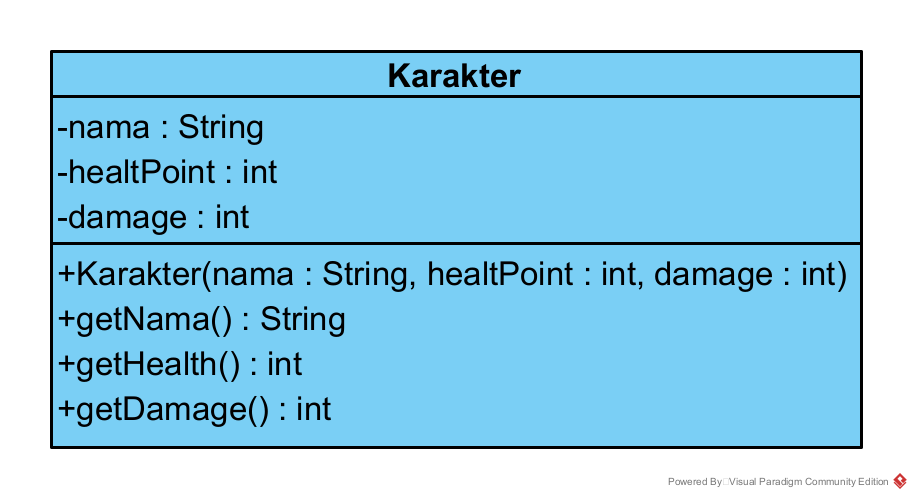
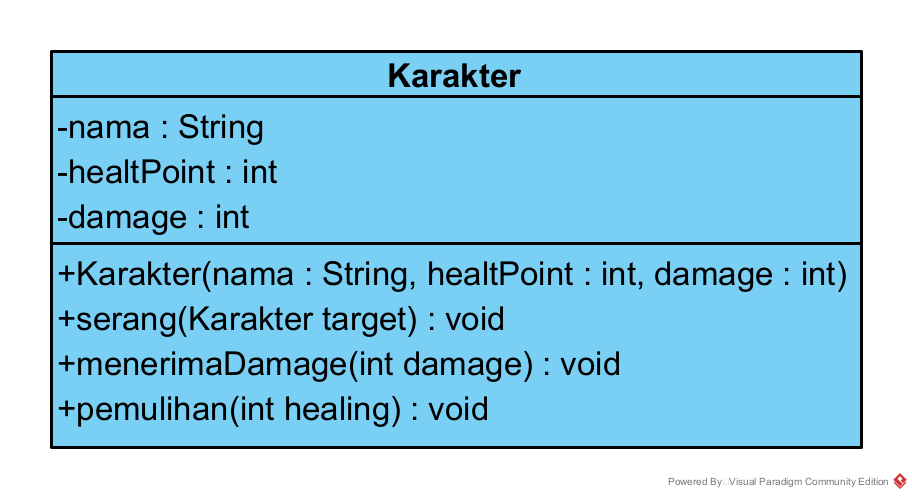
tugas 2 udah bang

Changed region(s): [[0.0614, 0.6024, 0.5833, 0.8735], [0.614, 0.6928, 0.7061, 0.753], [0.4912, 0.6024, 0.5526, 0.6627]]

diff --git a/Tugas3/src/Karakter.java b/Tugas3/src/Karakter.java
@@ -1,23 +1,26 @@
 public class Karakter {
     private String nama;
-    private int healtPoint;
+    private int healthPoint;
     private int damage;
 
-    public Karakter(String nama, int healtPoint, int damage) {
+    public Karakter(String nama, int healthPoint, int damage) {
         this.nama = nama;
-        this.healtPoint = healtPoint;
+        this.healthPoint = healthPoint;
         this.damage = damage;
     }
-    
-    public String getNama() {
-        return nama;
+
+    public void serang(Karakter target) {
+        System.out.println(this.nama + " menyerang " + target.nama + " dengan damage " + this.damage);
+        target.menerimaDamage(this.damage);
     }
 
-    public int getHealtPoint() {
-        return healtPoint;
+    public void menerimaDamage(int damage) {
+        this.healthPoint -= damage;
+        System.out.println(this.nama + " menerima damage " + damage + ". Health point sekarang: " + this.healthPoint);
     }
 
-    public int getDamage() {
-        return damage;
+    public void pemulihan(int healing) {
+        this.healthPoint += healing;
+        System.out.println(this.nama + " ditambahkan health point sebesar " + healing + ". Health point sekarang: " + this.healthPoint);
     }
 }

diff --git a/Tugas3/src/Game.java b/Tugas3/src/Game.java
@@ -1,0 +1,25 @@
+public class Game {
+
+    public static void main(String[] args) {
+        Karakter char1 = new Karakter("Hero", 1000, 25);
+        Karakter char2 = new Karakter("Villain", 1200, 30);
+
+        char1.serang(char2);
+        char2.pemulihan(25);
+        char1.menerimaDamage(20);
+
+        Senjata Sword = new Senjata("Primordial jade cutter", 214);
+
+        Sword.displayInfoSenjata();
+        Sword.upgradeSenjata(20);
+        Sword.refineSenjata();
+
+        Stage floor1 = new Stage(1, "Mudah");
+
+        floor1.displayInfoStage();
+        floor1.levelUp(1);
+        floor1.ubahKesulitan("Sulit");
+        floor1.displayInfoStage();
+    }
+
+}

diff --git a/Tugas3/src/Senjata.java b/Tugas3/src/Senjata.java
@@ -7,11 +7,20 @@ public class Senjata {
         this.damage = damage;
     }
 
-    public String getNama() {
-        return nama;
-    }
-
     public int getDamage() {
         return damage;
+    }
+
+    public void displayInfoSenjata() {
+        System.out.println("Senjata: " + nama + ", Damage: " + damage);
+    }
+
+    public void upgradeSenjata(int upgrade) {
+        this.damage += upgrade;
+        System.out.println("Senjata " + this.nama + " telah ditingkatkan. Damage sekarang: " + this.damage);
+    }
+
+    public void refineSenjata() {
+        System.out.println("Senjata " + this.nama + " telah dirifine.");
     }
 }

diff --git a/Tugas3/src/Stage.java b/Tugas3/src/Stage.java
@@ -11,7 +11,17 @@ public class Stage {
         return level;
     }
 
-    public String getKesulitan() {
-        return kesulitan;
+    public void displayInfoStage() {
+        System.out.println("Level: " + level + ", Kesulitan: " + kesulitan);
+    }
+
+    public void ubahKesulitan(String ubah) {
+        this.kesulitan = ubah;
+        System.out.println("Kesulitan di ubah ke " + kesulitan);
+    }
+
+    public void levelUp(int tambah) {
+        this.level += tambah;
+        System.out.println("Stage telah naik ke level " + this.level);
     }
 }

diff --git a/Tugas2/235150600111010-Ali/README.md b/Tugas2/235150600111010-Ali/README.md
@@ -11,12 +11,12 @@ NIM  : 235150600111010
 
 ### Gunakan tempalate dibawah apabila pengerjaan bagian tugas praktikum merupakan aplikasi interaktif, dan hapus kode baris ini, hapus template berikut beserta kata baris ini apabila tugas praktikum bukan aplikasi interaktif
 
-Nama Aplikasi Program :    
+Nama Aplikasi Program : Sistem informasi Perpustakaan
 Fitur Aplikasi Program :                   
-1. fitur A
-2. fitur B
-3. fitur C 
-4. dst
+1. Cari buku berdasarkan Judul
+2. Cari buku berdasarkan Pengarang
+3. Cari buku berdasarkan Kategori
+4. Tambahkan buku
 
 ## 🔗 Link Penjelasan Tugas
 
